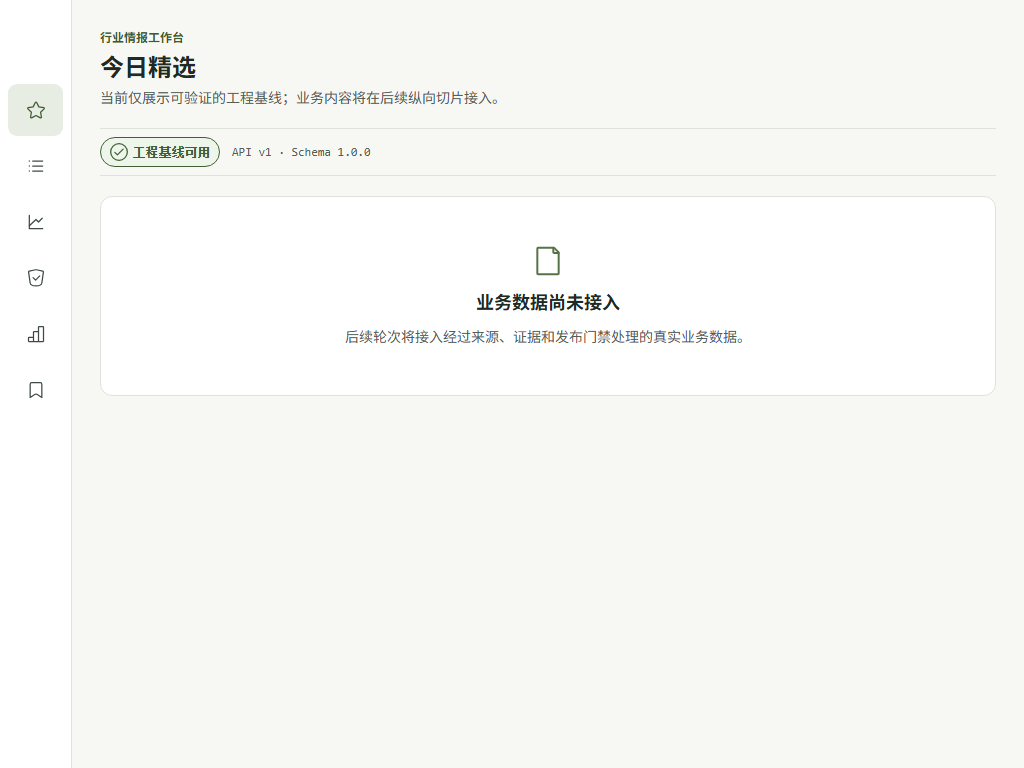
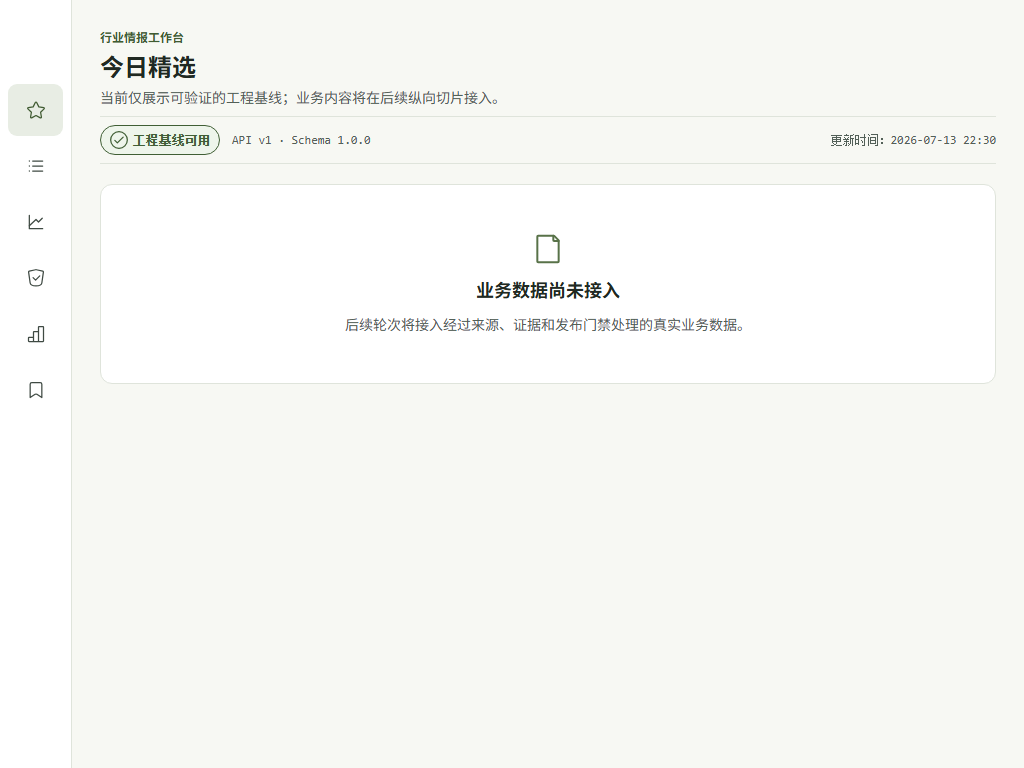
test(web): stabilize page header visual evidence

diff --git a/apps/web/tests/e2e/visual.spec.ts b/apps/web/tests/e2e/visual.spec.ts
@@ -1,4 +1,4 @@
-import { expect, test } from '@playwright/test'
+import { expect, test, type Page } from '@playwright/test'
 
 const visualViewports = [
   { name: '1920x1080', width: 1920, height: 1080 },
@@ -6,6 +6,15 @@ const visualViewports = [
   { name: '1024x768', width: 1024, height: 768 },
   { name: '768x1024', width: 768, height: 1024 },
 ] as const
+
+async function normalizeDynamicPageData(page: Page): Promise<void> {
+  const updatedAt = page.getByTestId('page-updated-at')
+  await expect(updatedAt).toBeVisible()
+  await updatedAt.evaluate((element) => {
+    element.setAttribute('datetime', '2026-07-13T14:30:00.000Z')
+    element.textContent = '2026-07-13 22:30'
+  })
+}
 
 for (const viewport of visualViewports) {
   test(`home visual baseline at ${viewport.name}`, async ({ page }) => {
@@ -17,6 +26,7 @@ for (const viewport of visualViewports) {
     })
     await expect(page.getByRole('heading', { level: 1, name: '今日精选' })).toBeVisible()
     await expect(page.getByText('API v1 · Schema 1.0.0', { exact: true })).toBeVisible()
+    await normalizeDynamicPageData(page)
 
     await expect(page).toHaveScreenshot(`home-${viewport.name}.png`, {
       animations: 'disabled',

diff --git a/apps/web/tests/e2e/home.spec.ts b/apps/web/tests/e2e/home.spec.ts
@@ -47,6 +47,12 @@ test('root renders only the real API/schema engineering baseline and honest empt
   await expect(page.getByRole('heading', { level: 1, name: '今日精选' })).toBeVisible()
   await expect(page.getByText('工程基线可用', { exact: true })).toBeVisible()
   await expect(page.getByText('API v1 · Schema 1.0.0', { exact: true })).toBeVisible()
+  const updatedAt = page.getByTestId('page-updated-at')
+  await expect(updatedAt).toBeVisible()
+  await expect(page.getByRole('group', { name: '页面状态与更新时间' })).toContainText('更新时间：')
+  const updatedAtIso = await updatedAt.getAttribute('datetime')
+  expect(updatedAtIso).not.toBeNull()
+  expect(Number.isNaN(Date.parse(updatedAtIso ?? ''))).toBe(false)
   await expect(page.getByRole('heading', { level: 2, name: '业务数据尚未接入' })).toBeVisible()
   await expect(page.getByTestId('metric')).toHaveCount(0)
   await expect(page.locator('article')).toHaveCount(0)

diff --git a/docs/acceptance/round-00a-ui-foundation.md b/docs/acceptance/round-00a-ui-foundation.md
@@ -2,7 +2,7 @@
 
 - 日期：2026-07-13
 - 分支：`codex/round-00a-ui-foundation`
-- 实现与测试顶端提交：`0dee1f2`
+- 终审契约修复提交：`b2f19d6`
 - 最终验收资料提交：见本轮最终回执；本文件不预填尚未生成的提交哈希
 
 ## 用户价值
@@ -34,7 +34,7 @@
 
 ## 截图证据
 
-以下 PNG 均由仓库 Playwright 1.61.1 / Chromium 从健康的 `http://127.0.0.1:3000/` 直接生成。每次采集均设置精确 viewport、light 色彩模式和 reduced motion，等待 `.srbg-app-shell[aria-busy="false"]` 与真实 API/Schema 文本后截取当前 viewport；脚本同时确认页面横向溢出为 0、`article` 为 0、演示指标为 0。四张图片均已实际目视检查，无裁切、重叠、错误覆盖层或伪业务数据。
+以下 PNG 均由仓库 Playwright 1.61.1 / Chromium 从健康的 `http://127.0.0.1:3000/` 直接生成。每次采集均设置精确 viewport、light 色彩模式和 reduced motion，等待 `.srbg-app-shell[aria-busy="false"]` 与真实 API/Schema 文本；真实时间语义由 E2E 单独验证，视觉快照仅将动态可见时间归一化为固定的 `2026-07-13 22:30`，以消除无意义的像素漂移。脚本同时确认页面横向溢出为 0、`article` 为 0、演示指标为 0。四张图片均已实际目视检查，无裁切、重叠、错误覆盖层或伪业务数据。
 
 ### 1920×1080
 
@@ -54,7 +54,7 @@
 
 ## 最终真实测试输出
 
-以下结果来自 2026-07-13 本轮验收资料落盘后的最终刷新；实现与浏览器测试顶端提交为 `0dee1f2`，最终交付哈希由本轮回执给出。首次调用 Token 脚本时，Codex 桌面 PowerShell 的 `PATH` 未包含其已安装的 Node 目录；补入桌面提供的 Node 24.14.0 运行时路径后，从 `pnpm install --frozen-lockfile` 开始完整重跑，仓库文件无需因此修改。
+以下结果来自 2026-07-13 终审契约修复与验收资料落盘后的最终刷新；最终交付哈希由本轮回执给出。首次调用 Token 脚本时，Codex 桌面 PowerShell 的 `PATH` 未包含其已安装的 Node 目录；补入桌面提供的 Node 24.14.0 运行时路径后，从 `pnpm install --frozen-lockfile` 开始完整重跑，仓库文件无需因此修改。
 
 | 检查 | 实际结果 |
 |---|---|
@@ -63,8 +63,8 @@
 | `pnpm --filter @srbg/web build` | Nuxt 生产构建退出码 0 |
 | Ruff / mypy strict | 退出码 0；mypy 检查 11 个源文件无问题 |
 | Python pytest | 38 项测试通过 |
-| `@srbg/ui` Vitest | 12 个测试文件、50 项测试通过 |
-| `@srbg/web` Vitest | 23 项测试通过 |
+| `@srbg/ui` Vitest | 12 个测试文件、52 项测试通过 |
+| `@srbg/web` Vitest | 24 项测试通过 |
 | 契约测试 | 8 项测试通过，生成契约无漂移 |
 | `make security-check` | 退出码 0；pip-audit 无已知漏洞，pnpm 仅 1 个低危项，Trivy 无 HIGH/CRITICAL 机密或配置发现 |
 | Playwright E2E | 20 项测试通过 |
